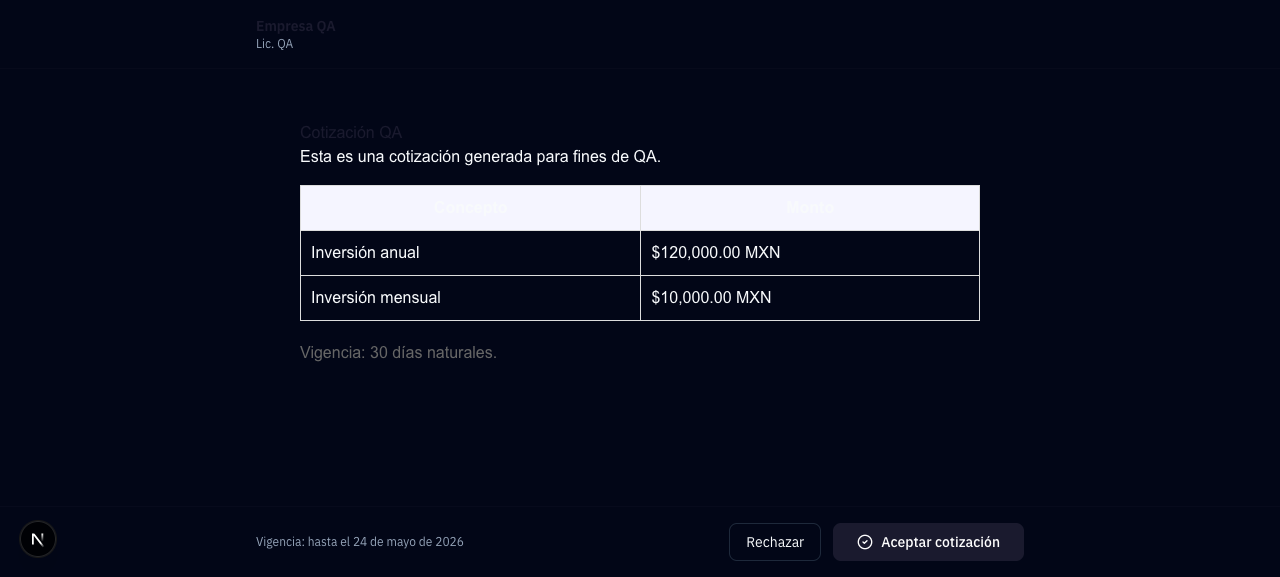
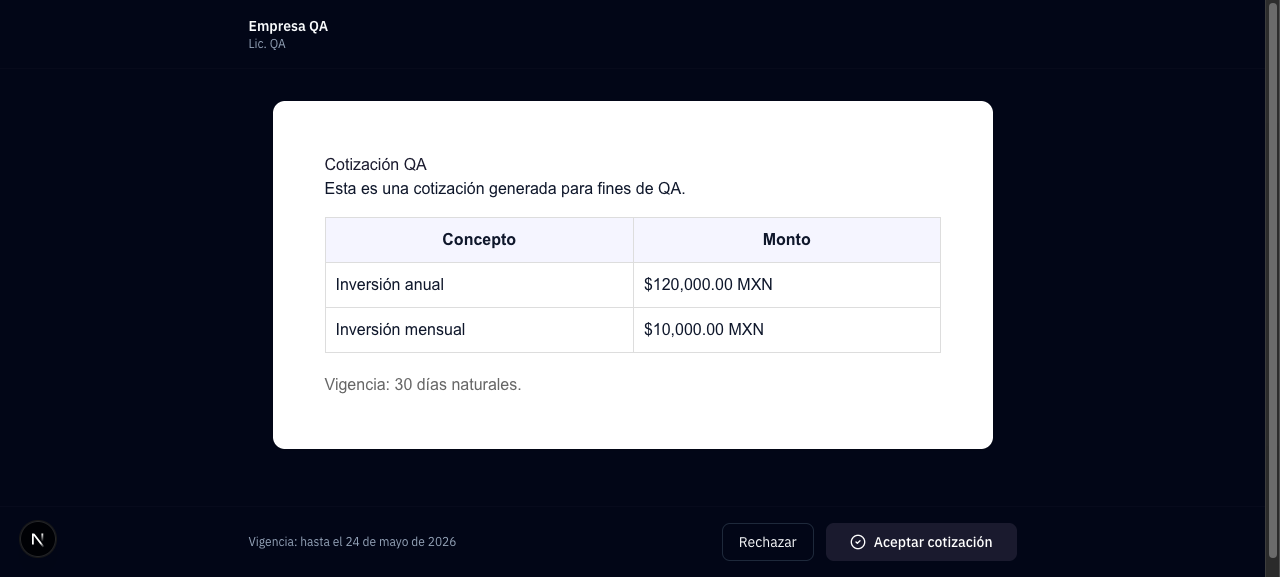
fix(3b): wrap landing quotation content in white document card
Discovered visually via QA screenshot: dark-on-dark unreadable text on
the public landing because quotation HTML uses dark colors (color:
#1a1a2e, color: #666) but the page bg is the dark theme background.

- Wrap dangerouslySetInnerHTML in rounded-lg bg-white text-slate-900
  p-8 shadow-sm — now renders like a paper document regardless of
  browser theme.
- Header issuing-company name no longer defaults to invisible
  primaryColor #1a1a2e on dark theme; falls back to text-foreground
  when no brandColor is set, only applies brandColor when issuing
  company actually has one.
- Drive-by: fix TS error in qaSeedMutation.ts (sent_expired narrowing).

diff --git a/src/components/public/QuotationLandingContent.tsx b/src/components/public/QuotationLandingContent.tsx
@@ -39,7 +39,8 @@ export function QuotationLandingContent({
   const [fatal, setFatal] = useState<"expired" | "invalid" | null>(null);
   const [showDecline, setShowDecline] = useState(false);
 
-  const primaryColor = issuingCompany?.primaryColor ?? "#1a1a2e";
+  const brandColor = issuingCompany?.primaryColor;
+  const primaryColor = brandColor ?? "#1a1a2e";
 
   const handleAccept = async () => {
     setSubmitting(true);
@@ -113,7 +114,10 @@ export function QuotationLandingContent({
             />
           )}
           <div>
-            <p className="text-sm font-semibold" style={{ color: primaryColor }}>
+            <p
+              className={`text-sm font-semibold ${brandColor ? "" : "text-foreground"}`}
+              style={brandColor ? { color: brandColor } : undefined}
+            >
               {issuingCompany?.name ?? "Cotización"}
             </p>
             {issuingCompany?.signatoryName && (
@@ -124,13 +128,15 @@ export function QuotationLandingContent({
       </header>
 
       <main className="max-w-3xl mx-auto px-6 py-8">
-        <div
-          dangerouslySetInnerHTML={{
-            __html: DOMPurify.sanitize(quotation.content, {
-              USE_PROFILES: { html: true },
-            }),
-          }}
-        />
+        <div className="rounded-lg bg-white text-slate-900 p-8 shadow-sm">
+          <div
+            dangerouslySetInnerHTML={{
+              __html: DOMPurify.sanitize(quotation.content, {
+                USE_PROFILES: { html: true },
+              }),
+            }}
+          />
+        </div>
       </main>
 
       <div

diff --git a/convex/functions/quotations/qaSeedMutation.ts b/convex/functions/quotations/qaSeedMutation.ts
@@ -148,7 +148,7 @@ export const insertSeedRow = internalMutation({
     const isExpired = args.status === "sent_expired";
     const actualStatus: "sent" | "approved" | "rejected" = isExpired
       ? "sent"
-      : args.status;
+      : (args.status as "sent" | "approved" | "rejected");
     const tokenExpiresAt = isExpired
       ? Date.now() - 60_000
       : Date.now() + TOKEN_TTL_MS;